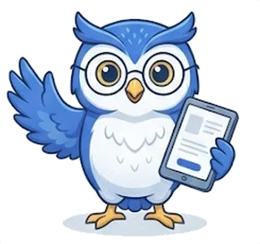
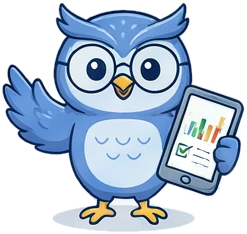
Ikon bergambar dari kit desain ChartFlow + Flo lebih tajam + APK 2.2
- Menu bawah/samping: Beranda, Saham, Sinyal, Portofolio, Alat (kripto: Metode/Watchlist) memakai icons/ui/*.webp
- Kartu metode: ikon Momentum, CAN SLIM, Dividen, Pullback Tren, Swing, Value, Growth, Quality, Filter sendiri, Hasil uji; status uji jadi titik warna
- Pose Flo baru (lebih tajam): flo-hai, flo-jelaskan, flo-head, + flo-metode/cari/kosong/tidur untuk tahap berikut
- APK 2.2 (versionCode 3) dengan gambar Flo baru

Claude-Session: https://claude.ai/code/session_0176tunvRWz2uxg8u9SgSzZw

diff --git a/index.html b/index.html
@@ -619,6 +619,13 @@ body:has(.drawer) .flo,body.fpo .flo{opacity:0!important;pointer-events:none!imp
 @media (max-width:760px){.flo.dock{padding:0 6px;width:auto}.flo.dock .lbl{display:none}}
 @keyframes bob{50%{transform:translateY(-8px)}}
 @keyframes blink{0%,93%,100%{transform:scaleY(1)}96%{transform:scaleY(.1)}}
+/* Ikon gambar ChartFlow (kit desain 21 Nov 2026) menggantikan emoji */
+.uic{width:26px;height:26px;object-fit:contain;display:block;margin:0 auto}
+.sn-g .ic .uic{width:22px;height:22px}
+.mic{width:30px;height:30px;object-fit:contain;vertical-align:-9px;margin-right:8px;display:inline-block}
+.sn-s .mic{width:20px;height:20px;vertical-align:-5px;margin-right:6px}
+.pd{display:inline-block;width:8px;height:8px;border-radius:50%;margin-left:7px;vertical-align:middle}
+.pd.buy{background:var(--good)}.pd.hold{background:var(--warn)}.pd.sell{background:var(--bad)}.pd.wait{background:var(--muted)}
 /* Flo burung hantu (21 Nov 2026): Flo utuh, tanpa bola/lingkaran */
 .flo{background:transparent!important;box-shadow:none!important;padding:0!important;overflow:visible}
 .flo .orb{display:none!important}
@@ -1000,7 +1007,7 @@ function renderTabs(){
   renderNav(); const grp=groupOf(tab); store.set(WP+"g."+grp.id,tab);
   $("tabs").innerHTML=grp.tabs.length<2?"":ordTabs(TABS.filter(t=>grp.tabs.includes(t.id))).map(t=>{
     const c=tabCount(t,list), q=MID[t.id]||t.id==="pbt"?methodProof(t.id):null;
-    return `<button class="tab" role="tab" type="button" aria-selected="${t.id===tab}" data-id="${t.id}"><span class="k">${q?`${q.ic} ${esc(q.s)}`:esc(t.k)}</span><span class="n">${q?q.ic+" ":""}${esc(t.name)}</span><span class="c">${c}</span></button>`;
+    return `<button class="tab" role="tab" type="button" aria-selected="${t.id===tab}" data-id="${t.id}"><span class="k">${q?`${q.ic} ${esc(q.s)}`:esc(t.k)}</span><span class="n">${MICO[t.id]?UI(MICO[t.id],"mic")+esc(t.name.replace(/^📏\s*/,""))+(q?`<i class="pd ${q.c}" title="${esc(q.s)}"></i>`:""):(q?q.ic+" ":"")+esc(t.name)}</span><span class="c">${c}</span></button>`;
   }).join("");
 }
 const ltYrs=()=>LT&&LT.from?`${LT.from.slice(0,4)}–${LT.to.slice(0,4)}`:"";
@@ -2769,9 +2776,9 @@ function addToPorto(st){ store.set(WP+"porto.pre",JSON.stringify({code:st.code,p
 
 
 // ---------- navigasi v2 ----------
-const GROUPS=[{id:"home",ic:"🏠",name:"Beranda",tabs:["summary"]},
-  {id:"saham",ic:"🔍",name:"Saham",tabs:["momentum","dividend","canslim","swing","value","growth","quality"].filter(id=>MID[id]).concat(M.map(m=>m.id).filter(id=>!["momentum","dividend","canslim","swing","value","growth","quality"].includes(id)),IS_ID?["pbt"]:[],["screen","uji"])},
-  {id:"watch",ic:"📍",name:"Sinyal",tabs:["watch"]},{id:"porto",ic:"💼",name:"Portofolio",tabs:["porto"]},{id:"alat",ic:"🧰",name:"Alat",tabs:["cycles","fibtime","calc","hot","divcal"]}];
+const CF_ICO=(function(){ var l=document.querySelector("img.logo"), s=l?l.getAttribute("src"):"icons/icon-192.png"; return s.replace(/icon-192\.png.*$/,"")+"ui/"; })(); const UI=(n,c)=>`<img class="${c||"uic"}" src="${CF_ICO}${n}.webp" alt="" decoding="async">`; const MICO={momentum:"momentum",canslim:"canslim",dividend:"dividend",pbt:"pbt",swing:"swing",value:"value",growth:"growth",quality:"quality",screen:"screen",uji:"uji"}; const GROUPS=[{id:"home",ic:UI("nav-home"),name:"Beranda",tabs:["summary"]},
+  {id:"saham",ic:UI("nav-saham"),name:"Saham",tabs:["momentum","dividend","canslim","swing","value","growth","quality"].filter(id=>MID[id]).concat(M.map(m=>m.id).filter(id=>!["momentum","dividend","canslim","swing","value","growth","quality"].includes(id)),IS_ID?["pbt"]:[],["screen","uji"])},
+  {id:"watch",ic:UI("nav-sinyal"),name:"Sinyal",tabs:["watch"]},{id:"porto",ic:UI("nav-porto"),name:"Portofolio",tabs:["porto"]},{id:"alat",ic:UI("nav-alat"),name:"Alat",tabs:["cycles","fibtime","calc","hot","divcal"]}];
 const groupOf=t=>GROUPS.find(g=>g.tabs.includes(t))||GROUPS[0];
 function renderSide(g,nd){
   const sn=$("sidenav"); if(!sn||!matchMedia("(min-width:1100px)").matches) return;
@@ -2780,7 +2787,7 @@ function renderSide(g,nd){
   if(!$("snDyn")){ sn.innerHTML=`<div id="snDyn" style="display:flex;flex-direction:column;gap:10px"></div><div class="sn-foot" id="snFootSlot"></div><button type="button" class="sn-col" id="snCol" title="Kecilkan / lebarkan menu">${document.body.classList.contains("sncol")?"»":"«"}</button>`; }
   $("snDyn").innerHTML=`<div class="sn-top">${br?br.innerHTML:""}</div><nav class="sn-nav">${GROUPS.map(x=>{ const subs=x.tabs.length>1&&x.id===g.id?ordTabs(TABS.filter(t=>x.tabs.includes(t.id))):[];
       return `<button type="button" class="sn-g" data-g="${x.id}" aria-current="${x.id===g.id}" title="${esc(x.name)}"><span class="ic" aria-hidden="true">${x.ic}</span><span class="tx">${x.name}</span>${x.id==="porto"&&nd?`<span class="bd">${nd}</span>`:""}</button>
-      ${subs.map(t=>{ const n=num(tabCount(t,list)); return `<button type="button" class="sn-s" data-sub="${t.id}" aria-current="${t.id===tab}"><span class="tx">${MID[t.id]||t.id==="pbt"?((methodProof(t.id)||{}).ic||"")+" ":""}${esc(t.name)}</span>${n?`<span class="cn">${n}</span>`:""}</button>`; }).join("")}`; }).join("")}</nav>`;
+      ${subs.map(t=>{ const n=num(tabCount(t,list)); return `<button type="button" class="sn-s" data-sub="${t.id}" aria-current="${t.id===tab}"><span class="tx">${MICO[t.id]?UI(MICO[t.id],"mic")+esc(t.name.replace(/^📏\s*/,"")):(MID[t.id]||t.id==="pbt"?((methodProof(t.id)||{}).ic||"")+" ":"")+esc(t.name)}</span>${n?`<span class="cn">${n}</span>`:""}</button>`; }).join("")}`; }).join("")}</nav>`;
   const tb=document.querySelector(".tb-r"); if(tb&&tb.parentNode!==$("snFootSlot")) $("snFootSlot").appendChild(tb);
 }
 function placeTb(){ const tb=document.querySelector(".tb-r"), top=document.querySelector(".topbar"); if(!tb||!top) return;

diff --git a/kripto/index.html b/kripto/index.html
@@ -619,6 +619,13 @@ body:has(.drawer) .flo,body.fpo .flo{opacity:0!important;pointer-events:none!imp
 @media (max-width:760px){.flo.dock{padding:0 6px;width:auto}.flo.dock .lbl{display:none}}
 @keyframes bob{50%{transform:translateY(-8px)}}
 @keyframes blink{0%,93%,100%{transform:scaleY(1)}96%{transform:scaleY(.1)}}
+/* Ikon gambar ChartFlow (kit desain 21 Nov 2026) menggantikan emoji */
+.uic{width:26px;height:26px;object-fit:contain;display:block;margin:0 auto}
+.sn-g .ic .uic{width:22px;height:22px}
+.mic{width:30px;height:30px;object-fit:contain;vertical-align:-9px;margin-right:8px;display:inline-block}
+.sn-s .mic{width:20px;height:20px;vertical-align:-5px;margin-right:6px}
+.pd{display:inline-block;width:8px;height:8px;border-radius:50%;margin-left:7px;vertical-align:middle}
+.pd.buy{background:var(--good)}.pd.hold{background:var(--warn)}.pd.sell{background:var(--bad)}.pd.wait{background:var(--muted)}
 /* Flo burung hantu (21 Nov 2026): Flo utuh, tanpa bola/lingkaran */
 .flo{background:transparent!important;box-shadow:none!important;padding:0!important;overflow:visible}
 .flo .orb{display:none!important}
@@ -1991,8 +1998,8 @@ function renderCalc(box){
 }
 
 // ---------- navigasi ----------
-const GROUPS=[{id:"home",ic:"🏠",name:"Beranda",tabs:["summary"]},{id:"metode",ic:"🚦",name:"Metode",tabs:["lamp","mom90"]},
-  {id:"watch",ic:"📍",name:"Watchlist",tabs:["watch"]},{id:"porto",ic:"💼",name:"Portofolio",tabs:["porto"]},{id:"alat",ic:"🧰",name:"Alat",tabs:["cycles","hot","calc"]}];
+const CF_ICO=(function(){ var l=document.querySelector("img.logo"), s=l?l.getAttribute("src"):"icons/icon-192.png"; return s.replace(/icon-192\.png.*$/,"")+"ui/"; })(); const UI=(n,c)=>`<img class="${c||"uic"}" src="${CF_ICO}${n}.webp" alt="" decoding="async">`; const MICO={momentum:"momentum",canslim:"canslim",dividend:"dividend",pbt:"pbt",swing:"swing",value:"value",growth:"growth",quality:"quality",screen:"screen",uji:"uji"}; const GROUPS=[{id:"home",ic:UI("nav-home"),name:"Beranda",tabs:["summary"]},{id:"metode",ic:UI("nav-saham"),name:"Metode",tabs:["lamp","mom90"]},
+  {id:"watch",ic:UI("nav-sinyal"),name:"Watchlist",tabs:["watch"]},{id:"porto",ic:UI("nav-porto"),name:"Portofolio",tabs:["porto"]},{id:"alat",ic:UI("nav-alat"),name:"Alat",tabs:["cycles","hot","calc"]}];
 
 const groupOf=t=>GROUPS.find(g=>g.tabs.includes(t))||GROUPS[0];
 function renderSide(g,nd){
@@ -2002,7 +2009,7 @@ function renderSide(g,nd){
   if(!$("snDyn")){ sn.innerHTML=`<div id="snDyn" style="display:flex;flex-direction:column;gap:10px"></div><div class="sn-foot" id="snFootSlot"></div><button type="button" class="sn-col" id="snCol" title="Kecilkan / lebarkan menu">${document.body.classList.contains("sncol")?"»":"«"}</button>`; }
   $("snDyn").innerHTML=`<div class="sn-top">${br?br.innerHTML:""}</div><nav class="sn-nav">${GROUPS.map(x=>{ const subs=x.tabs.length>1&&x.id===g.id?ordTabs(TABS.filter(t=>x.tabs.includes(t.id))):[];
       return `<button type="button" class="sn-g" data-g="${x.id}" aria-current="${x.id===g.id}" title="${esc(x.name)}"><span class="ic" aria-hidden="true">${x.ic}</span><span class="tx">${x.name}</span>${x.id==="porto"&&nd?`<span class="bd">${nd}</span>`:""}</button>
-      ${subs.map(t=>{ const n=num(tabCount(t,list)); return `<button type="button" class="sn-s" data-sub="${t.id}" aria-current="${t.id===tab}"><span class="tx">${MID[t.id]||t.id==="pbt"?((methodProof(t.id)||{}).ic||"")+" ":""}${esc(t.name)}</span>${n?`<span class="cn">${n}</span>`:""}</button>`; }).join("")}`; }).join("")}</nav>`;
+      ${subs.map(t=>{ const n=num(tabCount(t,list)); return `<button type="button" class="sn-s" data-sub="${t.id}" aria-current="${t.id===tab}"><span class="tx">${MICO[t.id]?UI(MICO[t.id],"mic")+esc(t.name.replace(/^📏\s*/,"")):(MID[t.id]||t.id==="pbt"?((methodProof(t.id)||{}).ic||"")+" ":"")+esc(t.name)}</span>${n?`<span class="cn">${n}</span>`:""}</button>`; }).join("")}`; }).join("")}</nav>`;
   const tb=document.querySelector(".tb-r"); if(tb&&tb.parentNode!==$("snFootSlot")) $("snFootSlot").appendChild(tb);
 }
 function placeTb(){ const tb=document.querySelector(".tb-r"), top=document.querySelector(".topbar"); if(!tb||!top) return;

diff --git a/kbuild/pages2.js b/kbuild/pages2.js
@@ -240,5 +240,5 @@ function renderCalc(box){
 }
 
 // ---------- navigasi ----------
-const GROUPS=[{id:"home",ic:"🏠",name:"Beranda",tabs:["summary"]},{id:"metode",ic:"🚦",name:"Metode",tabs:["lamp","mom90"]},
-  {id:"watch",ic:"📍",name:"Watchlist",tabs:["watch"]},{id:"porto",ic:"💼",name:"Portofolio",tabs:["porto"]},{id:"alat",ic:"🧰",name:"Alat",tabs:["cycles","hot","calc"]}];
+const CF_ICO=(function(){ var l=document.querySelector("img.logo"), s=l?l.getAttribute("src"):"icons/icon-192.png"; return s.replace(/icon-192\.png.*$/,"")+"ui/"; })(); const UI=(n,c)=>`<img class="${c||"uic"}" src="${CF_ICO}${n}.webp" alt="" decoding="async">`; const MICO={momentum:"momentum",canslim:"canslim",dividend:"dividend",pbt:"pbt",swing:"swing",value:"value",growth:"growth",quality:"quality",screen:"screen",uji:"uji"}; const GROUPS=[{id:"home",ic:UI("nav-home"),name:"Beranda",tabs:["summary"]},{id:"metode",ic:UI("nav-saham"),name:"Metode",tabs:["lamp","mom90"]},
+  {id:"watch",ic:UI("nav-sinyal"),name:"Watchlist",tabs:["watch"]},{id:"porto",ic:UI("nav-porto"),name:"Portofolio",tabs:["porto"]},{id:"alat",ic:UI("nav-alat"),name:"Alat",tabs:["cycles","hot","calc"]}];
